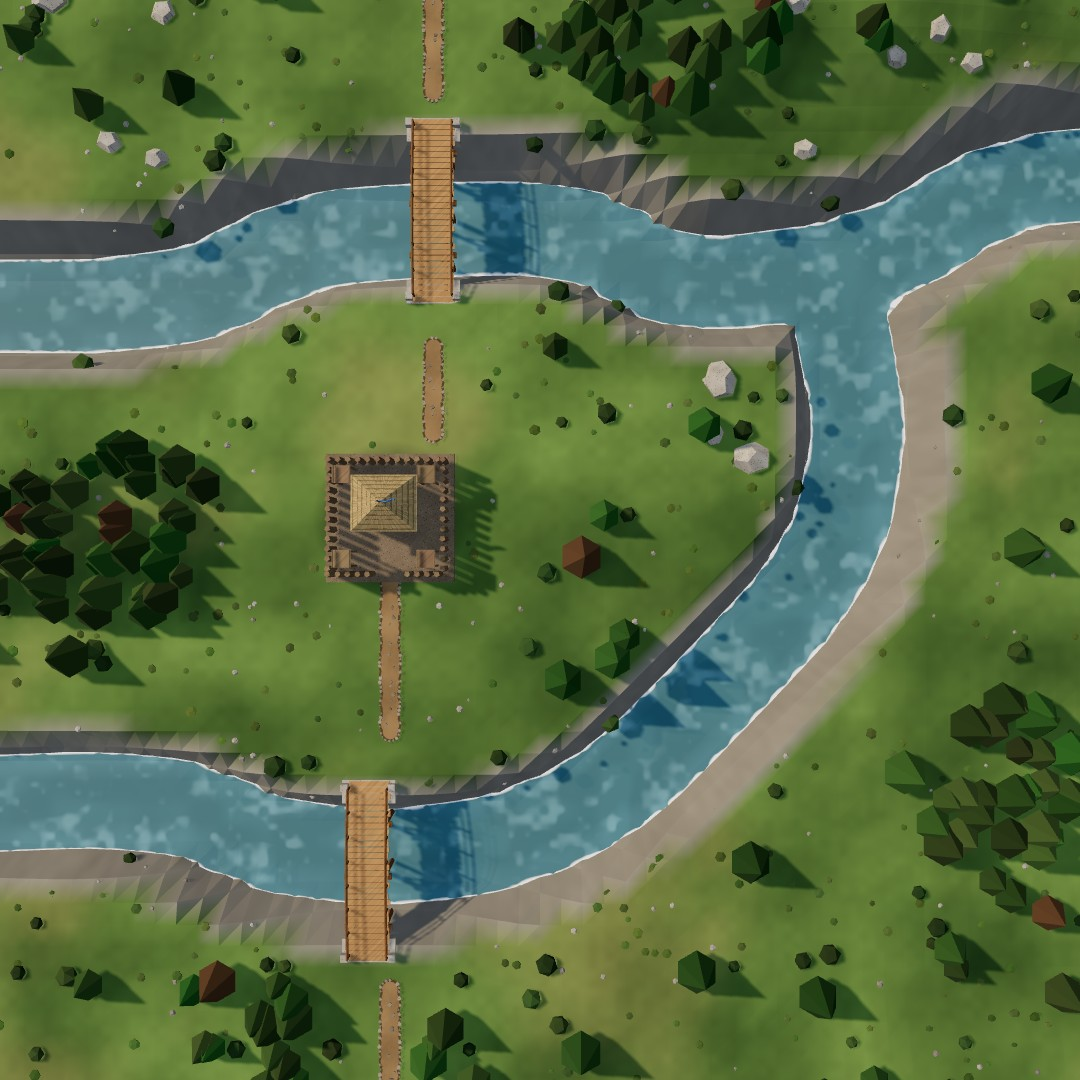
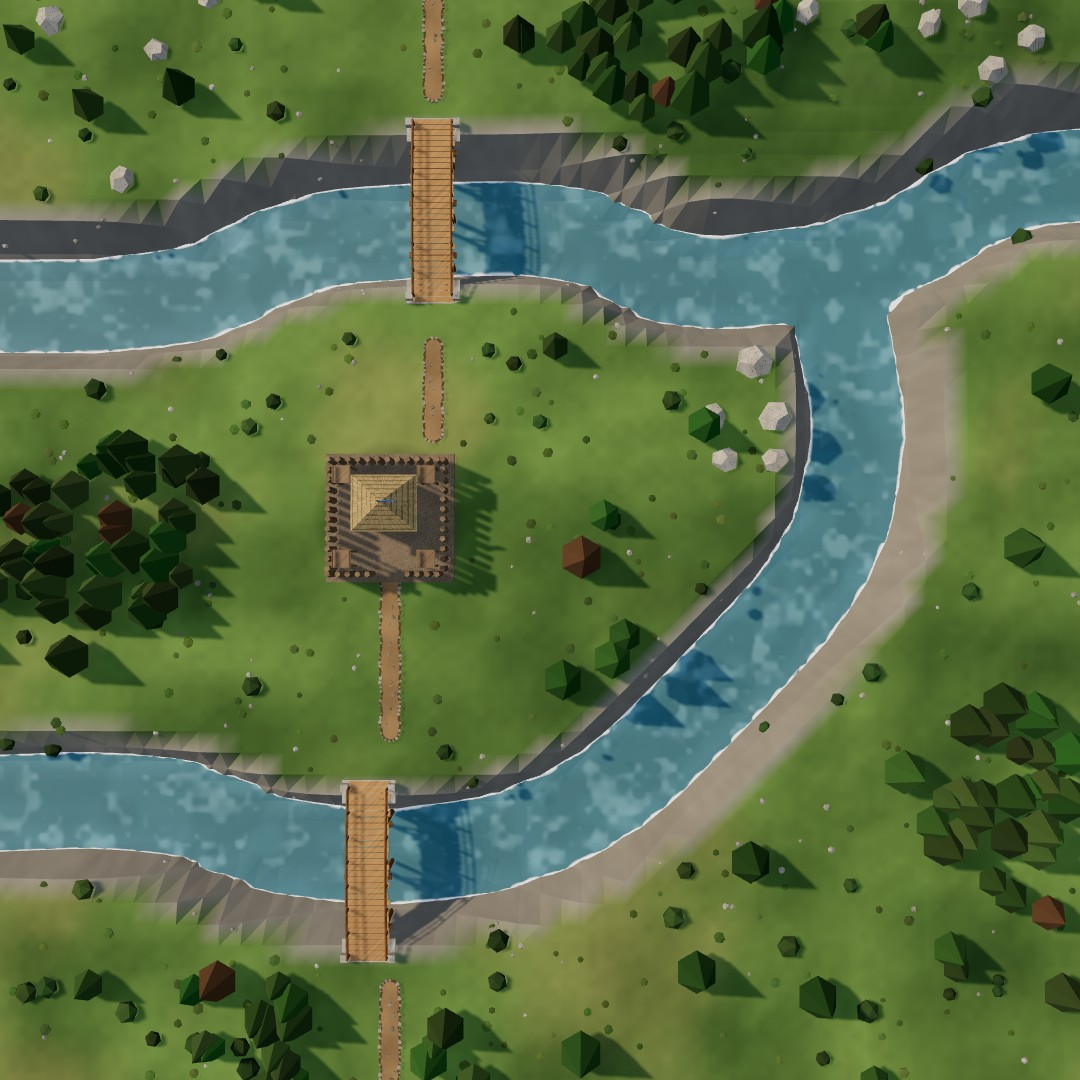
Siegeford: stone bridge, one wide ford, old tier-2 wall; Ironwood (was Ironcrag) trail off the bank; more rocks on Riverbend's tip; tier 2 opens at stage 4; Market Cross land line
Claude-Session: https://claude.ai/code/session_01AE8sRRsVdpH9ETfQvtppox

diff --git a/index.html b/index.html
@@ -648,12 +648,12 @@ const MAP_RULES = {
 const CAMP_MAPS = {
   vale: { stop: 0, maxTier: 1, cats: { eco: ['house', 'farm', 'lodge', 'quarry'], def: ['tower'], decor: ['road', 'flowers', 'torch'] } },
   bridge: { stop: 1, maxTier: 1, cats: { eco: ['house', 'farm', 'lodge', 'quarry'], def: ['tower', 'barracks', 'wall', 'gate'], decor: ['road', 'flowers', 'torch', 'rack'] } },
-  cross: { stop: 2, maxTier: 2, newTier: 2, cats: { eco: ['house', 'farm', 'lodge', 'quarry', 'market'], def: ['tower', 'barracks', 'wall', 'gate'], decor: ['road', 'flowers', 'torch', 'rack', 'statue'] } },
+  cross: { stop: 2, maxTier: 1, cats: { eco: ['house', 'farm', 'lodge', 'quarry', 'market'], def: ['tower', 'barracks', 'wall', 'gate'], decor: ['road', 'flowers', 'torch', 'rack', 'statue'] } },
   dune: { stop: 4, maxTier: 2, cats: { eco: ['house', 'farm', 'lodge', 'forester', 'quarry', 'market'], def: ['tower', 'ballista', 'barracks', 'wall', 'gate'], decor: ['road', 'flowers', 'torch', 'rack', 'statue', 'campfire', 'well'] } },
   bend: { stop: 5, maxTier: 2, cats: { eco: ['house', 'farm', 'lodge', 'forester', 'quarry', 'market'], def: ['tower', 'crossbow', 'ballista', 'barracks', 'wall', 'gate'], decor: ['road', 'flowers', 'torch', 'rack', 'statue', 'campfire', 'well', 'butts'] } },
   crag: { stop: 6, maxTier: 3, newTier: 3, prefer: { stone: 'mine' }, cats: { eco: ['house', 'farm', 'lodge', 'forester', 'quarry', 'mine', 'market'], def: ['tower', 'crossbow', 'ballista', 'barracks', 'wall', 'gate'], decor: ['road', 'flowers', 'torch', 'rack', 'statue', 'campfire', 'well', 'butts', 'banner'] } },
   ford: { stop: 7, maxTier: 3, prefer: { siege: 'catapult', stone: 'quarry' }, cats: { eco: ['house', 'farm', 'lodge', 'forester', 'quarry', 'mine', 'market'], def: ['tower', 'crossbow', 'ballista', 'catapult', 'barracks', 'wall', 'gate'], decor: ['road', 'flowers', 'torch', 'rack', 'statue', 'campfire', 'well', 'butts', 'banner', 'stores'] } },
-  watch: { stop: 3, maxTier: 2, cats: { eco: ['house', 'farm', 'lodge', 'quarry', 'market'], def: ['tower', 'ballista', 'barracks', 'wall', 'gate'], decor: ['road', 'flowers', 'torch', 'rack', 'statue', 'campfire'] } },   // more decor than fits: the player picks four (stage picker)
+  watch: { stop: 3, maxTier: 2, newTier: 2, cats: { eco: ['house', 'farm', 'lodge', 'quarry', 'market'], def: ['tower', 'ballista', 'barracks', 'wall', 'gate'], decor: ['road', 'flowers', 'torch', 'rack', 'statue', 'campfire'] } },   // more decor than fits: the player picks four (stage picker)
 };
 var WAVES = WAVES_STD, NIGHTS = WAVES.length, DAYLEN = [300, 150, 150, 150, 150], SPAWN_GAP = 1.1;
 function mapRules() { const R = MAP_RULES[MAP]; WAVES = R ? R.waves : WAVES_STD; NIGHTS = WAVES.length; DAYLEN = R ? R.day : [300, 150, 150, 150, 150]; SPAWN_GAP = R ? R.spawnGap : 1.1; }
@@ -826,7 +826,7 @@ function blobD(x, z, e, sd) {
 const CRAG_CLEAR = [25.2, 32.9, 11.5, 9.8], CRAG_ROCK = [39.9, 19.6, 8.4, 6];
 const CRAG_STREAM = smoothPts([[57, 36.4], [50.4, 37.8], [46.2, 42], [39.2, 42.7], [32.9, 43.4], [29.4, 46.2], [28, 57]]);
 const CRAG_ROADS = [smoothPts([[-1, 10.5], [5.6, 11.9], [10.5, 16.1], [14.7, 21], [17.5, 24.5], [20.3, 28], [22, 30.5]]),
-  smoothPts([[57, 32.9], [51.1, 33.6], [47.6, 36.4], [42, 37.8], [37.8, 38.9], [33.6, 36.4], [29.5, 35]])];
+  smoothPts([[57, 29.5], [51.5, 30.2], [47.5, 32.5], [42.5, 34.5], [37.8, 35.8], [33.6, 35.4], [29.5, 34.6]])];   // well up from the stream's bank (it used to run to the water's edge)
 function cragHeight(x, z) {
   let h = 2.5 + 1.8 * fbm(x * .06, z * .06);
   const d = blobD(x, z, CRAG_ROCK, 2);
@@ -837,14 +837,15 @@ function cragHeight(x, z) {
 // Siegeford (stage 8): a highland valley, a river across the middle with three shallow fords (grassy bars, like Stonebridge's),
 // the town on the south bank round a low rise; plenty of stone, a few pines; a gorge road from the west
 const FORD_RIVER = smoothPts([[-1, 23.1], [8.4, 21], [15.4, 22.4], [22.4, 21], [29.4, 19.6], [36.4, 21], [42, 20.3], [47.6, 19.6], [51.8, 17.5], [57, 16.8]]);
-const FORD_XS = [15, 28, 41];   // three crossings, well apart, so the water runs between them
+const FORD_XS = [34.5], FORD_BRIDGE_X = 15, FORD_WALL_ROW = 15;   // one wide ford; the west crossing is a stone bridge (Jack)
 const FORD_ROAD = smoothPts([[-1, 42.7], [5.6, 42], [10.5, 41.3], [15.4, 41.6], [21, 42], [24.5, 42.5]]);
 const FORD_HILLS = [[9.1, 7.7, 11.9, 7.7, 4], [48.3, 7.7, 10.5, 7, 4], [8.4, 51, 9.8, 6, 3.2], [49, 48.3, 10.5, 7.7, 4], [29.4, 34.5, 7.7, 4.2, 1.2]];
+const fordRiverZ = x => { const P = FORD_RIVER; for (let i = 0; i < P.length - 1; i++) if (x >= P[i][0] && x <= P[i + 1][0]) return lerp(P[i][1], P[i + 1][1], (x - P[i][0]) / (P[i + 1][0] - P[i][0])); return x < P[0][0] ? P[0][1] : P[P.length - 1][1]; };
 function fordHeight(x, z) {
   let h = 2.2 + 1.8 * fbm(x * .06, z * .06) + Math.max(0, fbm(x * .14 + 9, z * .14 + 3) - .55) * 4;
   for (const [cx, cz, rx, rz, hh] of FORD_HILLS) h += hh * (1 - sstep(0, 1, Math.hypot((x - cx) / rx, (z - cz) / rz)));
   h = lerp(3 + (h - 3) * .35, h, sstep(6, 11, Math.hypot(x - KX, z - KZ)));
-  const fd = Math.min(...FORD_XS.map(f => Math.abs(x - f))), ford = sstep(1.9, 1, fd), ramp = sstep(6, 2, fd);
+  const fd = Math.min(...FORD_XS.map(f => Math.abs(x - f))), ford = sstep(3.8, 2.6, fd), ramp = sstep(7.5, 4, fd);
   const d = polyDist(FORD_RIVER, x, z), river = lerp(-1.3, h, lerp(sstep(2.2, 5, d), sstep(2.4, 10, d), ramp));
   return d < 5 ? Math.max(river, lerp(river, .6 + .06 * vnoise(x * .9, z * .9), ford)) : river;   // .6: above the .45 raiders' routes need
 }
@@ -891,7 +892,8 @@ let bridges = [];
 const bridgeCell = new Uint8Array(N * N), BRIDGE_RISE = .45, DECK_W = 1.9;
 // where each map's bridges cross: a start point and a direction, marched along until the river is crossed
 function bridgeRays() {
-  if (MAP === 'pass' || MAP === 'vale' || MAP === 'cross' || MAP === 'watch' || MAP === 'dune' || MAP === 'crag' || MAP === 'ford') return [];
+  if (MAP === 'pass' || MAP === 'vale' || MAP === 'cross' || MAP === 'watch' || MAP === 'dune' || MAP === 'crag') return [];
+  if (MAP === 'ford') return [{ ox: FORD_BRIDGE_X, oz: fordRiverZ(FORD_BRIDGE_X) - 10, dx: 0, dz: 1, stone: true }];
   if (MAP === 'bend') return BEND_BRIDGES.map(([ox, oz, dx, dz]) => ({ ox, oz, dx, dz }));
   if (MAP === 'bridge') {                       // the stone bridge, square across the river north of the castle
     const e = .01, sl = (stoneRiverZ(BRIDGE_X + e) - stoneRiverZ(BRIDGE_X - e)) / (2 * e), m = Math.hypot(1, sl), dx = -sl / m, dz = 1 / m;
@@ -1352,7 +1354,7 @@ function genTrees() {
     }
     if (MAP === 'crag') {
       // deep woods everywhere but the clearing, the crag, the trails and the stream
-      if (blobD(x, z, CRAG_CLEAR, 5) < 1 || blobD(x, z, CRAG_ROCK, 2) < 1.05 || CRAG_ROADS.some(p => polyDist(p, x, z) < 2.4) || polyDist(CRAG_STREAM, x, z) < 3 || dk < 8) continue;
+      if (blobD(x, z, CRAG_CLEAR, 5) < 1 || (x > 40 && z > 26 && z < 34 && CRAG_ROADS[1] && polyDist(CRAG_ROADS[1], x, z) < 3.4) || blobD(x, z, CRAG_ROCK, 2) < 1.05 || CRAG_ROADS.some(p => polyDist(p, x, z) < 2.4) || polyDist(CRAG_STREAM, x, z) < 3 || dk < 8) continue;
       if (hash(x * 1.3, z * .7) < .72) trees.push({ x, z, s: .8 + hash(z, x) * .5, k: 1 });
       continue;
     }
@@ -1485,21 +1487,21 @@ function genRocks() {
   const addRock = (x, z, s0, rot) => { const mesh = new THREE.Mesh(rockGeo, rockMat); mesh.castShadow = mesh.receiveShadow = true; mesh.rotation.set(...rot); rocks.push({ x, z, amount: ROCK_STONE, s0, mesh }); scene.add(mesh); };
   if (MAP === 'crag') return;   // Ironcrag: no loose stone at all, mine it
   if (MAP === 'ford') {   // plenty of stone: on the highlands and both banks
-    for (const [cx, cz, want, sp] of [[10.5, 8.4, 7, 6], [48.3, 8.4, 7, 6], [49, 48.3, 6, 5.5], [17.5, 29.4, 4, 4], [42, 30.1, 4, 4], [9.8, 49, 4, 4.5], [40, 40, 3, 3]]) for (let n = 0, k = 0; n < 400 && k < want; n++) {
+    for (const [cx, cz, want, sp] of [[10.5, 8.4, 7, 6], [48.3, 8.4, 7, 6], [49, 48.3, 6, 5.5], [17.5, 36, 4, 3], [44, 37, 4, 3], [9.8, 49, 4, 4.5], [40, 40, 3, 3]]) for (let n = 0, k = 0; n < 400 && k < want; n++) {
       const x = cx + (Math.random() - .5) * 2 * sp, z = cz + (Math.random() - .5) * 2 * sp;
-      if (x < 1.5 || z < 1.5 || x > SIZE - 1.5 || z > SIZE - 1.5 || Math.hypot(x - KX, z - KZ) < 7 || polyDist(FORD_RIVER, x, z) < 4.5 || polyDist(FORD_ROAD, x, z) < 2 || rocks.some(r => Math.hypot(r.x - x, r.z - z) < 2)) continue;
+      if (x < 1.5 || z < 1.5 || x > SIZE - 1.5 || z > SIZE - 1.5 || Math.hypot(x - KX, z - KZ) < 7 || polyDist(FORD_RIVER, x, z) < 4.5 || polyDist(FORD_ROAD, x, z) < 2 || Math.abs(z - (FORD_WALL_ROW + .5) * CELL) < 2.6 || rocks.some(r => Math.hypot(r.x - x, r.z - z) < 2)) continue;
       addRock(x, z, .75 + Math.random() * .6, [Math.random() * 3, Math.random() * 3, Math.random() * 3]); k++;
     }
     return;
   }
   if (MAP === 'dune' || MAP === 'bend') {
     // Dunewell: round the foot of the two mesas, a few in the south-east; Riverbend: a few on the island, more on the north bank
-    const groups = MAP === 'dune' ? [[46.2, 11.9, 9, 9.5], [9.1, 46.2, 8, 9], [39.2, 42, 3, 4]] : [[39, 22.5, 3, 3.5], [45.5, 5, 6, 6], [8.4, 6.3, 4, 5]];
+    const groups = MAP === 'dune' ? [[46.2, 11.9, 9, 9.5], [9.1, 46.2, 8, 9], [39.2, 42, 3, 4]] : [[39.5, 22, 8, 3.6], [45.5, 5, 6, 6], [8.4, 6.3, 4, 5]];
     for (const [cx, cz, want, sp] of groups) for (let n = 0, k = 0; n < 400 && k < want; n++) {
       const x = cx + (Math.random() - .5) * 2 * sp, z = cz + (Math.random() - .5) * 2 * sp;
       if (x < 1.5 || z < 1.5 || x > SIZE - 1.5 || z > SIZE - 1.5 || Math.hypot(x - KX, z - KZ) < 7 || rocks.some(r => Math.hypot(r.x - x, r.z - z) < 2)) continue;
       if (MAP === 'dune' && (polyDist(DUNE_ROAD, x, z) < 2 || (cx !== 39.2 && (ellD(x, z, DUNE_MESAS[cx > 20 ? 0 : 1]) < 1.08 || ellD(x, z, DUNE_MESAS[cx > 20 ? 0 : 1]) > 1.6)))) continue;
-      if (MAP === 'bend' && (bendRiverD(x, z) < 4.5 || BEND_ROADS.some(p => polyDist(p, x, z) < 2))) continue;
+      if (MAP === 'bend' && (bendRiverD(x, z) < (cx === 39.5 ? 3.2 : 4.5) || BEND_ROADS.some(p => polyDist(p, x, z) < 2))) continue;
       addRock(x, z, .75 + Math.random() * .6, [Math.random() * 3, Math.random() * 3, Math.random() * 3]); k++;
     }
     return;
@@ -3352,7 +3354,7 @@ function completeSite(B) {
   }
   syncResidents(B); assignJobs(); if (WALLY[B.type]) refreshWalls(); refreshCard();
 }
-// the highest tier a stage allows (Stages 1 and 2 stay at tier 1, Stage 3 opens tier 2); free play has all three
+// the highest tier a stage allows (Stages 1–3 stay at tier 1, Stage 4 opens tier 2, Stage 7 tier 3); free play has all three
 const tierCap = () => (CAMP_MAPS[MAP] && CAMP_MAPS[MAP].maxTier) || 3;
 function upgrade(B) {
   const T = DEF[B.type];
@@ -4480,7 +4482,7 @@ function edgePoint() {
     // Ironcrag: the forest trail at the west edge; from night 3 some on the stream trail at the east edge
     // Siegeford: the north edge above the fords; from night 3 some on the gorge road at the west edge
     const late = PH.wave >= 3 && Math.random() < .4;
-    const pick = MAP === 'crag' ? (late ? () => [SIZE - 1.2, 31 + Math.random() * 4] : () => [1.2, 8.5 + Math.random() * 4])
+    const pick = MAP === 'crag' ? (late ? () => [SIZE - 1.2, 27.5 + Math.random() * 4] : () => [1.2, 8.5 + Math.random() * 4])
       : (late ? () => [1.2, 40.5 + Math.random() * 3.5] : () => [18 + Math.random() * 24, 1.2]);
     for (const needRoute of [true, false]) for (let n = 0; n < 60; n++) {
       const [x, z] = pick();
@@ -6208,6 +6210,17 @@ function bankWall() {
   const gap = ([ci, cj]) => ci === bci || Math.abs(ci - fci) <= 1 || ci === 6 || ci === 7;
   for (const c of line) if (!gap(c)) { const ev = evaluate('wall', c[0], c[1]); if (ev.ok) place('wall', c[0], c[1], { instant: true, free: true, quiet: true }); }
 }
+// Siegeford's old stone wall (tier 2): one straight row along the town's bank (FORD_WALL_ROW, z 30–32), open at the bridge, at the ford,
+// in a stretch to the east and one to the west (a winding line chasing the bank broke into pieces on its slopes and rocks)
+function fordWall() {
+  const cj = FORD_WALL_ROW, bci = Math.floor(FORD_BRIDGE_X / CELL), fci = Math.floor(FORD_XS[0] / CELL);
+  const gap = ci => Math.abs(ci - bci) <= 1 || Math.abs(ci - fci) <= 2 || ci === 22 || ci === 23 || ci === 3 || ci === 4;
+  for (let ci = 0; ci < N; ci++) if (!gap(ci) && evaluate('wall', ci, cj).ok) {
+    const B = place('wall', ci, cj, { instant: true, free: true, quiet: true });
+    if (B) { B.tier = 2; B.max = DEF.wall.hp[1]; B.hp = B.max; swapModel(B); }
+  }
+  refreshWalls();
+}
 // a stage's new buildings, one card at a time over the paused game: picture (tool icon), name, cost and tier-1 stats; Next, then Play
 var newCards = [], newCardI = 0;
 function newCardStats(t) {
@@ -6303,11 +6316,11 @@ function markMapStars() { document.querySelectorAll('.mapBtn').forEach(b => { b.
 const CAMPAIGN = [
   { name: 'Greenvale', sub: 'Tutorial', map: 'vale', at: [140, 820], adds: ['house', 'farm', 'lodge', 'quarry', 'tower', 'road', 'flowers', 'torch'] },
   { name: 'Stonebridge', map: 'bridge', at: [250, 700], land: 'A bridge town', adds: ['barracks', 'wall', 'gate', 'rack'] },
-  { name: 'Market Cross', map: 'cross', at: [420, 785], adds: ['market', 'statue'] },
+  { name: 'Market Cross', map: 'cross', at: [420, 785], land: 'Old crossroads · little stone', adds: ['market', 'statue'] },
   { name: 'Watchhill', map: 'watch', at: [580, 735], land: 'Dry hills', adds: ['ballista', 'campfire'] },
   { name: 'Dunewell', map: 'dune', at: [668, 590], land: 'Desert · few trees', adds: ['forester', 'well'] },
   { name: 'Riverbend', map: 'bend', at: [345, 600], land: 'Between two rivers', adds: ['crossbow', 'butts'] },
-  { name: 'Ironcrag', map: 'crag', at: [160, 500], land: 'Deep woods · no stone', adds: ['mine', 'banner'] },
+  { name: 'Ironwood', map: 'crag', at: [160, 500], land: 'Deep woods · no stone', adds: ['mine', 'banner'] },
   { name: 'Siegeford', map: 'ford', at: [320, 405], land: 'Highlands · little wood', adds: ['catapult', 'stores'] },
   { name: 'Meadowmere', at: [548, 470], land: 'Marsh · poor fields', adds: ['farmhouse'] },
   { name: 'Horsefields', at: [668, 340], land: 'Open plains', adds: ['stables'] },
@@ -6644,7 +6657,7 @@ function startGame() {
   if (MAP === 'dune') { yaw = 0; target.x += 6; target.z += 2; layRoads([DUNE_ROAD]); rebuildRoads(); }   // from the south: the oasis ahead, the dunes behind
   if (MAP === 'bend') { yaw = 0; target.z -= 1; layRoads(BEND_ROADS); rebuildRoads(); }
   if (MAP === 'crag') { yaw = 0; target.x += 3; target.z -= 4; layRoads(CRAG_ROADS); rebuildRoads(); }   // from the south: the crag up on the right
-  if (MAP === 'ford') { yaw = 0; target.z -= 9; layRoads([FORD_ROAD]); rebuildRoads(); }                   // from the south: the fords ahead                   // from the south: the north bridge at the top
+  if (MAP === 'ford') { yaw = 0; target.z -= 9; layRoads([FORD_ROAD]); rebuildRoads(); fordWall(); }                   // from the south: the fords ahead                   // from the south: the north bridge at the top
   if (MAP === 'watch') { yaw = 0; target.x += 7; target.z -= 4; layRoads(WATCH_ROADS); rebuildRoads(); placeRuin(); }   // from the south: Watch hill ahead, the gully on the right   // from the south, the cross and the north road ahead
   BANK_WALL = MAP === 'bridge' ? BANK_WALL : [];
   if (MAP === 'vale') guideOn = true;               // the tutorial stage: the guided first day every time (Skip ends it)

diff --git a/CLAUDE.md b/CLAUDE.md
@@ -19,7 +19,7 @@ The whole game is currently one self-contained file: `index.html` (~165 KB, thre
 2. Split `index.html` into modules (e.g. `render/`, `models/`, `people/`, `sim/`, `ui/`) with a simple bundler (Vite), keeping a single-file build for easy sharing.
 3. Replace the mock-based tests with real Playwright runs against the actual game.
 4. Later: real art (model packs). Audio is wired up (see Audio below); it needs real files in `audio/music` and `audio/sfx`.
-5. **Campaign** (Jack's plan, only sketched so far): twelve maps on the overview (`CAMPAIGN`), each bringing in a few buildings so players learn them slowly and a story can build up: 1 Greenvale (tutorial: house, fields, lumber, quarry, archers, path, flowers, torch), 2 Stonebridge (barracks, wall, gate, weapon rack), 3 Market Cross (market, statue), 4 Watchhill (ballista, campfire), 5 Dunewell (forester, well; was Oakhollow, renamed for its desert), 6 Riverbend (crossbow, target range), 7 Ironcrag (mine, banner), 8 Siegeford (catapult line, siege stores), 9 Meadowmere (farmhouse), 10 Horsefields (stables), 11 Raider Keep and 12 Warlord's Hold (bosses). Stages 1–8 (Greenvale, Stonebridge, Market Cross, Watchhill, Dunewell, Riverbend, Ironcrag, Siegeford) are built and playable (see Maps; sketches in `design/stages/`); Jack sketches each stage first (a 2D plan, e.g. `design/stages/stage3-market-cross.svg/.png`) and only then has it built in 3D; the others aren't designed yet: don't start them until Jack says. Stars (see Summary) are to be spent later on upgrades to weaponry or buildings; not built yet either.
+5. **Campaign** (Jack's plan, only sketched so far): twelve maps on the overview (`CAMPAIGN`), each bringing in a few buildings so players learn them slowly and a story can build up: 1 Greenvale (tutorial: house, fields, lumber, quarry, archers, path, flowers, torch), 2 Stonebridge (barracks, wall, gate, weapon rack), 3 Market Cross (market, statue), 4 Watchhill (ballista, campfire), 5 Dunewell (forester, well; was Oakhollow, renamed for its desert), 6 Riverbend (crossbow, target range), 7 Ironcrag (mine, banner), 8 Siegeford (catapult line, siege stores), 9 Meadowmere (farmhouse), 10 Horsefields (stables), 11 Raider Keep and 12 Warlord's Hold (bosses). Stages 1–8 (Greenvale, Stonebridge, Market Cross, Watchhill, Dunewell, Riverbend, Ironwood, Siegeford) are built and playable (see Maps; sketches in `design/stages/`); Jack sketches each stage first (a 2D plan, e.g. `design/stages/stage3-market-cross.svg/.png`) and only then has it built in 3D; the others aren't designed yet: don't start them until Jack says. Stars (see Summary) are to be spent later on upgrades to weaponry or buildings; not built yet either.
 6. Open questions Jack hasn't answered: should paths also speed up raiders (currently yes)? should farm output depend on number of farmers?
 
 ## Style rules (from Jack)
@@ -69,14 +69,14 @@ The whole game is currently one self-contained file: `index.html` (~165 KB, thre
 - **Mountain pass** (`MAP` 'pass'): no water. The castle on a plateau in the middle of the top half (`PASS.plate` 9.5 m round it, height 6); the open ground rings it and narrows into a pass (about 23–27 m wide, its sides unalike) coming up from the bottom edge (x ≈ 14–39), falling to about 1.5 m there and rolling a little, inside an uneven line of mountains (`PASS_EDGE` polyline, closed below the map's bottom edge; `passAt` gives the depth inside it, wobbled by noise); rough mountains beyond (8–18 m, ridged noise, snow over 16 m via `SNOW_C` in `recolor`) behind 3 m cliffs (`passHeight`). `passOpen(x, z)` (depth > .3) is the only ground anyone may stand on, path through or build on (`canStand`, `cellPass`, `evaluate` "Too steep"), so every raider comes up the pass from the bottom edge, where they spawn (`edgePoint`: scattered about the middle of the open span on the bottom edge (a bell curve over its middle half; evenly across it they read as coming up one side), an open point there with a route to the castle door, else any open point there, so a walled-off pass still spawns them in the pass to break the walls; the old fallback in the mountains left them stuck). Trees: a thick forest ring round the castle (6.8 to 13 m out) except toward the pass (south), trees along the foot of the mountains, clumps in the open, and unreachable `deco` pines on the mountains (`treeFree` skips them). Stone is plentiful and kept to the foot of the mountains so the middle stays open: 8 outcrops picked each game 2.2–3.8 m inside the mountain line (`pickPassRocks` → `PASS_ROCK_C`, 9 m apart), 8 rocks each no deeper than 5 m in, plus 14 scattered no deeper than 4.5 m. Rules (`MAP_RULES.pass`, applied by `mapRules()` in `startGame`): one 900 s day (15 min), then night 1 = 70 raiders (mostly tier 1 foot, a few tier 2, 4 crossbows, a horse spear and a ram), a 150 s day, night 2 = 100 (mostly tier 2–3, with crossbows, horsemen, a ballista and a mangonel; `MAP_RULES.pass.waves`); raiders spawn every `SPAWN_GAP` .5 s; same starting resources. The camera starts looking up the pass (`yaw` 0). Only a raider's bigger parts (bounding radius ≥ .16) cast shadows (`spawnEnemy`), as up to 100 can be on screen.
 - **Greenvale** (`MAP` 'vale', campaign stop 1, the tutorial; played from the campaign screen's Play button or `?map=vale`, not in the map picker): a small green valley (`VALE`: about 33 m across round (27, 31), an uneven rim from `fbm`, about 260 open cells against the usual 784) closed in by gentle wooded hills nobody may walk or build on (`valeAt` depth, `valeOpen`; `mapOpen(x, z)` covers both bounded maps in `canStand`, `cellPass` and `evaluate` "Too steep"), open only to the north-east, where a 14 m wide pass (`VALE.w`; 9 m was too narrow for Jack) (`VALE.gap`) runs out to the map's corner: every raider spawns well inside its mouth on the top or right edge (`edgePoint`) and comes that way. The hills stay green (`recolor` only tints much steeper ground as rock there), mostly open grass with patches of out-of-reach `deco` woods (Jack found them too thickly wooded twice). Plenty to gather, but natural (Jack found the first version too thickly wooded and its rock clusters too tight): a thin band of trees round the rim and up the pass's sides (its middle 3.5 m kept clear), a few copses in the meadow (about 75 trees in reach), and about 40 rocks, all near the foot of the hills (Jack wants stone by the hill ground, not out in the meadow): 6 loose groups of 3–5 spread over 8 m just inside the rim (`pickValeRocks`, `VALE_ROCK_C`, depth 1–2.6 m) plus 16 single rocks within 4.5 m of it, none in the pass. Castle at `KX/KZ` 25,33 (cells 11–13, 15–17); the camera starts from the south-west so the way in is at the top of the screen. Rules (`MAP_RULES.vale`): 3 nights (4 spears; 6 spears + 2 archers; 8 spears + 3 archers, all tier 1), days 180/120/120 s (3, 2, 2 minutes: Jack's call), spawn gap 1.6 s, start gold 60 wood 45 stone 10 food 30 (`res` in the rules, read by `startGame`). Its buildings come from `CAMP_MAPS.vale.cats` (house, fields, lumber, quarry; archers; path, flowers, torch), not the loadout (`applyLoadout`; number keys only pick tools in the dock); the guided first day runs every time (`guideOn` set in `startGame`). Stars are kept under `STARS.vale` and shown on its campaign card; Restart and Play again go back to the campaign (`showStart`, `openCampaign`).
 - **Stonebridge** (`MAP` 'bridge', Stage 2; from the campaign or `?map=bridge`): a river winding from the east edge to the west (`stoneRiverZ(x)`, flowing west: the water shader's `uIsle` 2 and `flowVel`), the town on the south bank, the raiders' woods on the north bank, low hills along the south edge. One old **stone bridge** north of the castle (`BRIDGE_X` 28.5, square across the river, `bridgeRays` → `stone: true` → `makeStoneBridge`: a paved deck on a solid stone span, low parapets, piers with a cutwater upstream where it stands in water, stone landings; `b.ex/ez` its southern end) and upstream a **ford** (`FORD_X` 46.5: the river bed rises to a gravel bar at .6–.66, above the .45 raiders' routes need, with gentle banks down to it over ~10 m (`ramp`): a grassy strip across the river (Jack preferred it to a translucent sheet of shallow water, which was tried and dropped); workers (mode 1) can cross it too, plain villagers can't). Castle at `KX/KZ` 29,37 (cells 13–15, 17–19); camera from the south (`yaw` 0), the river at the top. A **half-built palisade** stands along the town's bank from edge to edge (`bankWall()` in `startGame`, `BANK_D` 7.2 m south of the river's middle, past the bank's slope; each column's cell nudged south off the bridge, the slope and the wet; steps joined on their southern side; placed free and instant), left open at the bridge's southern end (1 cell: a gate), at the ford (3 cells) and in one stretch to the west (3 cells): the new player closes it with a gate and a few walls (`BANK_WALL` lists every cell of the line). Woods: thick on the north bank, a wood in the south-west and one in the south-east, lone trees; stone: 10 rocks just inside the wall west of the castle, 9 by the southern hills, 5 on the north bank (never on the wall's line). Raiders spawn on the north edge (`edgePoint`): toward the bridge (x 10–34) on nights 1–2; from night 3 two in five come from the north-east (x 40–54) and cross at the ford. Rules (`MAP_RULES.bridge`): 4 nights (5 spears; 6 spears + 3 swords; + 3 archers; 10 spears, 6 swords, 3 archers: no ram, Jack keeps rams for later stages), days 240/120/120/120 s (4 minutes, then 2 per wave: Jack's call), spawn gap 1.4 s, start gold 60 wood 45 stone 20 food 30. Buildings (`CAMP_MAPS.bridge.cats`): Stage 1's plus barracks, wall, gate and weapon rack. No guided day (only Stage 1, the tutorial, has one; `guideOn` is set only for 'vale'; `applyLoadout` still takes a stage's own `guide` if one is ever given). Instead, every stage after the first opens with its **new building cards** (`showNewCards(CAMPAIGN[stop].adds)`, `#newCards`, `renderNewCard`, `newCardStats`): over the paused game, one card per new building or decor, each popping up with `SND.alert` (`Alert_sound.mp3`): the tool's icon on the left (`#ncIcon`, 44 px; the tier card shows the upgrade chevrons), beside it "New · 1/4", name, (a 3D picture of the building on a cream panel was tried and dropped: Jack's call) cost and tier-1 stats as icon + number (health; housing, gold, food, workers, reach; archers, damage, range; soldiers and their damage; a decor's effects and charm), Next, and Play on the last, which unpauses. Preview picture `maps/bridge.jpg`.
-- **Market Cross** (`MAP` 'cross', Stage 3; from the campaign or `?map=cross`): a gentle meadow (`crossHeight`), a low rise to the north-east, a narrow brook in the south-east corner (`CROSS_BROOK`). Two old roads, laid as paths at the start (`CROSS_ROADS`, `crossTown()` in `startGame`: cell by cell, diagonal steps joined), cross at `CROSS_AT` (24, 30), north-east of the castle (`KX/KZ` 17,39, `findValid('castle', 7, 18)`); an old stone market cross stands at the junction (a free statue whose model is swapped for `makeMarketCross`: three steps, shaft, cross head; its charm lifts the hamlet's gold), and a hamlet of three free houses round it. Plenty of wood (woods west, south-west, on the north-east rise and south-east; lone trees; none on the roads), only five rocks (three under the rise): trade for stone at the market. Raiders come down the north road (top edge, x 24–30); from night 3 about 45% along the east road (right edge, z 22–28) (`edgePoint`). Rules (`MAP_RULES.cross`): 4 nights (6 spears; 6 spears + 4 swords; 6 spears, 4 swords, 3 archers, 3 horse spears; 8 spears, 5 swords, 4 archers, 4 horse spears, 2 horse swords: Jack wanted more horses on nights 3 and 4), days 240/120/120/120 s, spawn gap 1.3 s, start gold 60 wood 45 stone 0 food 30. Buildings (`CAMP_MAPS.cross.cats`): Stage 2's plus market and statue; new-building cards for them. No guided day (the startup `guideOn` read also keeps it off for campaign stages after the first). Preview `maps/cross.jpg`.
+- **Market Cross** (`MAP` 'cross', Stage 3; from the campaign or `?map=cross`): a gentle meadow (`crossHeight`), a low rise to the north-east, a narrow brook in the south-east corner (`CROSS_BROOK`). Two old roads, laid as paths at the start (`CROSS_ROADS`, `crossTown()` in `startGame`: cell by cell, diagonal steps joined), cross at `CROSS_AT` (24, 30), north-east of the castle (`KX/KZ` 17,39, `findValid('castle', 7, 18)`); an old stone market cross stands at the junction (a free statue whose model is swapped for `makeMarketCross`: three steps, shaft, cross head; its charm lifts the hamlet's gold), and a hamlet of three free houses round it. Plenty of wood (woods west, south-west, on the north-east rise and south-east; lone trees; none on the roads), only five rocks (three under the rise): trade for stone at the market. Raiders come down the north road (top edge, x 24–30); from night 3 about 45% along the east road (right edge, z 22–28) (`edgePoint`). Land line "Old crossroads · little stone". Rules (`MAP_RULES.cross`): 4 nights (6 spears; 6 spears + 4 swords; 6 spears, 4 swords, 3 archers, 3 horse spears; 8 spears, 5 swords, 4 archers, 4 horse spears, 2 horse swords: Jack wanted more horses on nights 3 and 4), days 240/120/120/120 s, spawn gap 1.3 s, start gold 60 wood 45 stone 0 food 30. Buildings (`CAMP_MAPS.cross.cats`): Stage 2's plus market and statue; new-building cards for them. No guided day (the startup `guideOn` read also keeps it off for campaign stages after the first). Preview `maps/cross.jpg`.
 - **Watchhill** (`MAP` 'watch', Stage 4; from the campaign or `?map=watch`; built from `design/stages/stage4-watchhill.svg`): dry golden hills (`watchHeight`: `WATCH_HILLS` x, z, radii, height, flat top; `recolor` tints it toward `C.dry` and the gully sandy), no water. The castle on a flat hilltop (`KX/KZ` 17,29, `findValid('castle', 7, 13)`), Watch hill to its north-east with an old ruined tower on its flat top (`WATCH_RUIN`, `placeRuin`: a broken stone ring and fallen blocks, scenery: `evaluate` "Ruin", `canStand` and `cellPass` keep everyone off it), a place for the stage's ballista and campfire with long sightlines down the slopes. A dry sandy gully (`WATCH_GULLY`, 1.1 m lower) winds in from the east edge; two tracks are laid as paths at the start (`WATCH_ROADS`, `layRoads`, shared with Market Cross): the valley track up the gully to the castle and the ridge track from the north edge past the ruin. Little wood (scrub in four hollows, lone trees), plenty of stone (7 loose groups on the slopes). Raiders come up the gully from the east edge (z 37–43); from night 3 about 40% down the ridge track from the north edge (x 39–46). Rules (`MAP_RULES.watch`): 5 nights (6 spears + 2 archers; 8 spears, 4 swords, 2 archers; + 3 horse spears; tier-2 spears and swords, 4 archers, 2 horse swords; then crossbows and a raider ballista, no ram (Jack)), days 300/120/120/120/120 s (5 minutes first: Jack's call), spawn gap 1.2 s, start gold 50 wood 30 stone 0 food 30. Buildings (`CAMP_MAPS.watch.cats`): Stage 3's plus ballista and campfire; its six decor don't fit a phone's dock, so Play opens the **stage town picker** first (below); tier 2 stays open. Preview `maps/watch.jpg`.
 - **Dunewell** (`MAP` 'dune', Stage 5; few bushes and dry tufts on the sand (`genClutter`: past the oasis only 10% of bushes and 35% of tufts are kept; Jack found it too bushy); from `design/stages/stage5-dunewell.svg`): sandy desert (`duneHeight`: dune ridges from a skewed sine over noise, away from the oasis and the road; `recolor` sand `DUNE_SAND` beyond the oasis, red-brown `DUNE_ROCK` mesa tops), the castle (`KX/KZ` 15,26, `findValid('castle', 6, 11)`) by a green oasis (`DUNE_OASIS`, its edge from `oasisD`: lobes and bays by angle and noise, a dry band into the sand; Jack found the plain ellipse too oval) round a pool (`DUNE_POOL`, real water); the only trees ring the pool (forester is the answer); a caravan road west to east laid as a path (`DUNE_ROAD`, `smoothPts`; path style `sand`: trodden sand a little darker than the dunes, no set or kerb stones (`bare`), so it blends in); two flat-topped mesas (`DUNE_MESAS`, 3.6 m) with stone round their feet, a few rocks south-east. Raiders over the dunes from the south edge (x 30–42); from night 3 about 40% along the road from the east edge (z 21–25). Rules (`MAP_RULES.dune`): 5 nights (6 spears + 3 archers; 8 spears, 4 swords, 3 archers; tier-2 spears and 4 horse spears; crossbows and horse swords; then a raider ballista: no ram on stages 4–5, Jack's call), days 300/120/120/120/120 s, spawn gap 1.1 s, start gold 50 wood 30 stone 0 food 30. Buildings: Stage 4's plus forester and well, picked on the stage town picker (Lumber or Forester; four of six decor).
 - **Riverbend** (`MAP` 'bend', Stage 6; from `design/stages/stage6-riverbend.svg`): the river comes in from the east and splits into a north and a south branch (`BEND_RIVERS`, smoothed; flows west like Stonebridge's), the town on the land between; one timber footbridge over each branch (`BEND_BRIDGES` rays, `makeBridge`) on a straight road through the castle (`BEND_ROADS`; `layRoads` skips bridge and building cells). Castle `KX/KZ` 21,28 (`findValid('castle', 9, 12)`). Woods on the island's west end and both far banks, a little stone on the island, more on the north bank. Raiders down to the north bridge from the north edge (x 18–28); from night 3 about 40% up to the south bridge from the south edge (x 15–25). Rules (`MAP_RULES.bend`): 5 nights (6 spears, 2 swords, 3 archers; + 2 crossbows; tier-2 foot and horse spears; a ram and horse swords; then tier-3 swords, a ram and a raider ballista), days 300/120/120/120/120 s, spawn gap 1 s, start gold 50 wood 30 stone 0 food 30. Buildings: Stage 5's plus crossbow and target range (Archers or Crossbow on the picker).
-- **Ironcrag** (`MAP` 'crag', Stage 7; from `design/stages/stage7-ironcrag.svg`; **opens tier 3**: `maxTier: 3`, `newTier: 3` adds a "Tier 3" card): deep woods everywhere (about 1,200 trees) but a clearing round the castle (`CRAG_CLEAR`, edge from `blobD`: a wobbly ellipse, shared helper), a grey iron crag north-east (`CRAG_ROCK`, 5 m, tinted `C.rock`), a stream through the south-east (`CRAG_STREAM`); **no loose stone at all** (`genRocks` returns nothing): the picker suggests the mine (`prefer: { stone: 'mine' }` in `CAMP_MAPS`, read by `stagePair`). Two trails laid as paths (`CRAG_ROADS`): from the west edge (the raiders' way in, z 8.5–12.5) and, from night 3 (about 40%), from the east edge (z 31–35). Castle `KX/KZ` 25,33. Rules (`MAP_RULES.crag`): 5 nights, tier-2 and tier-3 raiders from night 4, a ram on nights 4–5 and a raider ballista on 5; spawn gap .95 s; start gold 50 wood 30 stone 0 food 30. Buildings: Stage 6's plus mine and banner.
-- **Siegeford** (`MAP` 'ford', Stage 8; from `design/stages/stage8-siegeford.svg`): a highland valley (`fordHeight`, `FORD_HILLS`, grass tinted toward `C.dry`), a river across the middle (`FORD_RIVER`, flows west) with three shallow fords (`FORD_XS` 15, 28, 41: grassy bars at .6 like Stonebridge's ford; set well apart so the water runs between them), the town on the south bank round a low rise (castle `KX/KZ` 29,43); plenty of stone (7 groups), little wood (two pine stands, lone pines); a gorge road from the west edge laid as a path (`FORD_ROAD`). Raiders from the north edge (x 18–42) across the fords; from night 3 about 40% along the gorge road (west edge, z 40.5–44). Rules (`MAP_RULES.ford`): 5 nights with raider siege (a ballista on night 3, a catapult and a ram on night 4, two catapults, a tier-2 ballista and ram on night 5), spawn gap .9 s, start gold 50 wood 30 stone 0 food 30. Buildings: Stage 7's plus catapult and siege stores (`prefer: { siege: 'catapult' }`); tier 3 stays open.
+- **Ironwood** (`MAP` 'crag', Stage 7; was Ironcrag, renamed to sound foresty (Jack); its east trail (`CRAG_ROADS[1]`) runs well up from the stream's bank, trees kept off it, east spawns z 27.5–31.5; from `design/stages/stage7-ironcrag.svg`; **opens tier 3**: `maxTier: 3`, `newTier: 3` adds a "Tier 3" card): deep woods everywhere (about 1,200 trees) but a clearing round the castle (`CRAG_CLEAR`, edge from `blobD`: a wobbly ellipse, shared helper), a grey iron crag north-east (`CRAG_ROCK`, 5 m, tinted `C.rock`), a stream through the south-east (`CRAG_STREAM`); **no loose stone at all** (`genRocks` returns nothing): the picker suggests the mine (`prefer: { stone: 'mine' }` in `CAMP_MAPS`, read by `stagePair`). Two trails laid as paths (`CRAG_ROADS`): from the west edge (the raiders' way in, z 8.5–12.5) and, from night 3 (about 40%), from the east edge (z 31–35). Castle `KX/KZ` 25,33. Rules (`MAP_RULES.crag`): 5 nights, tier-2 and tier-3 raiders from night 4, a ram on nights 4–5 and a raider ballista on 5; spawn gap .95 s; start gold 50 wood 30 stone 0 food 30. Buildings: Stage 6's plus mine and banner.
+- **Siegeford** (`MAP` 'ford', Stage 8; from `design/stages/stage8-siegeford.svg`): a highland valley (`fordHeight`, `FORD_HILLS`, grass tinted toward `C.dry`), a river across the middle (`FORD_RIVER`, flows west, `fordRiverZ(x)`) crossed by an old stone bridge in the west (`FORD_BRIDGE_X` 15, `makeStoneBridge`) and one wide shallow ford east of the middle (`FORD_XS` [34.5]: a grassy bar at .6 like Stonebridge's; Jack had the three fords made one bridge and one big ford), an old **tier-2 stone wall** in one straight row along the town's bank (`fordWall()`, `FORD_WALL_ROW` 15, placed free and instant then set to tier 2; open at the bridge, the ford and two short stretches; rocks kept off its row), the town on the south bank round a low rise (castle `KX/KZ` 29,43); plenty of stone (7 groups), little wood (two pine stands, lone pines); a gorge road from the west edge laid as a path (`FORD_ROAD`). Raiders from the north edge (x 18–42) across the fords; from night 3 about 40% along the gorge road (west edge, z 40.5–44). Rules (`MAP_RULES.ford`): 5 nights with raider siege (a ballista on night 3, a catapult and a ram on night 4, two catapults, a tier-2 ballista and ram on night 5), spawn gap .9 s, start gold 50 wood 30 stone 0 food 30. Buildings: Stage 7's plus catapult and siege stores (`prefer: { siege: 'catapult' }`); tier 3 stays open.
 - **Stage town picker** (Jack's design): a stage with more decor unlocked than `DECOR_PICK`, or both buildings of a pair unlocked (`stageBoth`, picks in `localStorage['mtd-stage-pair']`, `STAGE_PAIR`, `stagePair`) (`stagePicks(map)`: Watchhill on) opens the Choose-your-town screen from its preview's Play (`showLoadPick(map)`, `stagePick`): its buildings are set (the unlocked one of each pair picked, the other locked), the decor it has unlocked are picked four of, and everything not unlocked yet shows only a padlock, no name, icon or cost (Jack's call; `LOCK_ICO`, `.ldOpt.locked`, a tap knocks `nope`); Back returns to the stage preview, Start plays. Picks per stage in `localStorage['mtd-stage-decor']` (`STAGE_DECOR`, `stageDecor(map)`: by default the newest four); `applyLoadout` trims the stage's decor to them (in `cats` order), so `?map=watch` uses them too.
-- **Tiers by stage** (`maxTier` in `CAMP_MAPS`, `tierCap()`): Stages 1 and 2 stay at tier 1 (no Upgrade button, `upgrade` refuses; Stage 1's guide drops its upgrade step), Stage 3 opens tier 2 (`newTier: 2` adds a "Tier 2" card after its building cards: "Upgrades", then house housing / gold and archer damage as before → after); free play has all three.
+- **Tiers by stage** (`maxTier` in `CAMP_MAPS`, `tierCap()`): Stages 1–3 stay at tier 1 (no Upgrade button, `upgrade` refuses; Stage 1's guide drops its upgrade step), Stage 4 opens tier 2 (Jack moved it from Stage 3; `newTier: 2` adds a "Tier 2" card after its building cards: "Upgrades", then house housing / gold and archer damage as before → after); free play has all three.
 - Raiders pick targets by walking distance, never a straight line across water (`pickTarget` → `reachTarget`: `landField` is a breadth-first cell count over land and bridges, buildings counted as open since they break through; unreachable buildings are skipped) and route on the cell grid with `walkTo` (mode 2) toward a fixed point on the side they reach first (`e.tp`, reset on each 3 s retarget); when buildings or walls close every route, `walkTo` falls back to a mode-3 path (`cellPass` mode 3 ignores occupancy) so they walk to whatever blocks the way and break it (they used to walk straight at the target and stand at a riverbank on River isle); straight `steer` only within 3 m and over open ground (`clearLine`); `edgePoint` falls back to mode-3 routes for a walled-in town; a wall in the way (stuck or 3.5 s without progress) is attacked as before. A raider spawned a metre or so from its point never lands on ground it can't stand on (`spawnEnemy` falls back to the point itself). Spawn points (`edgePoint`) must be walkable (`cellPass` mode 2) and have a route to the castle's door (a route to the castle's centre never exists: it is inside the building), else raiders spawned on steep edge hills stood stuck.
 - No building over a rock (`evaluate`: "Rocks"), so stone is never buried.
 - **Map sides** (`buildEdges`, from `syncTerrain`): solid earth walls from the ground's edge down to `EDGE_BASE` −4 (vertex-coloured: grassy lip, soil, darker below) and a water cross-section where a river runs off the edge, so the map reads as a block of land from low angles. (A 50 m scenery skirt beyond the map was tried and dropped.)
